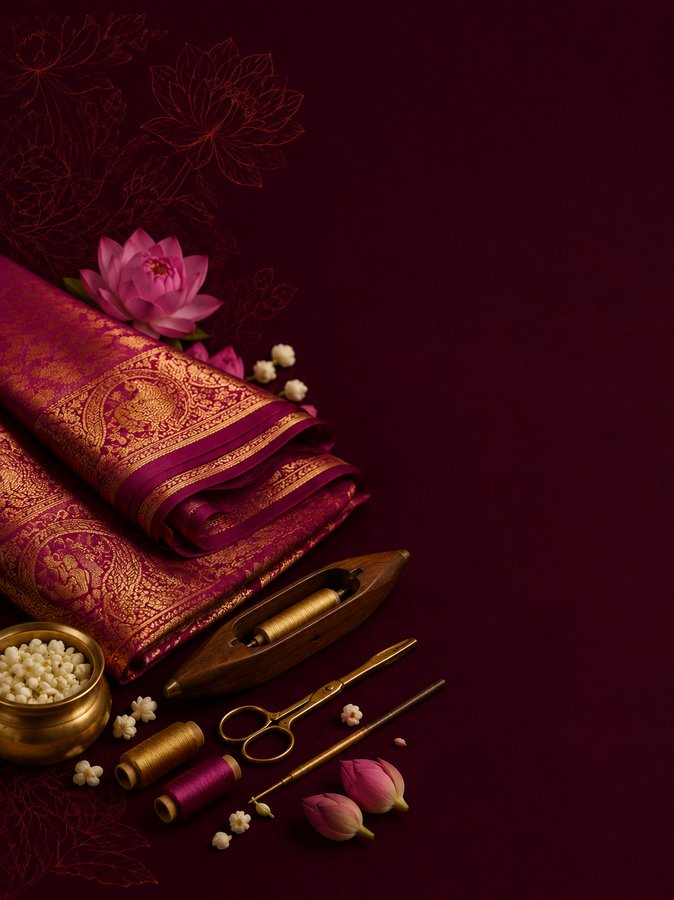
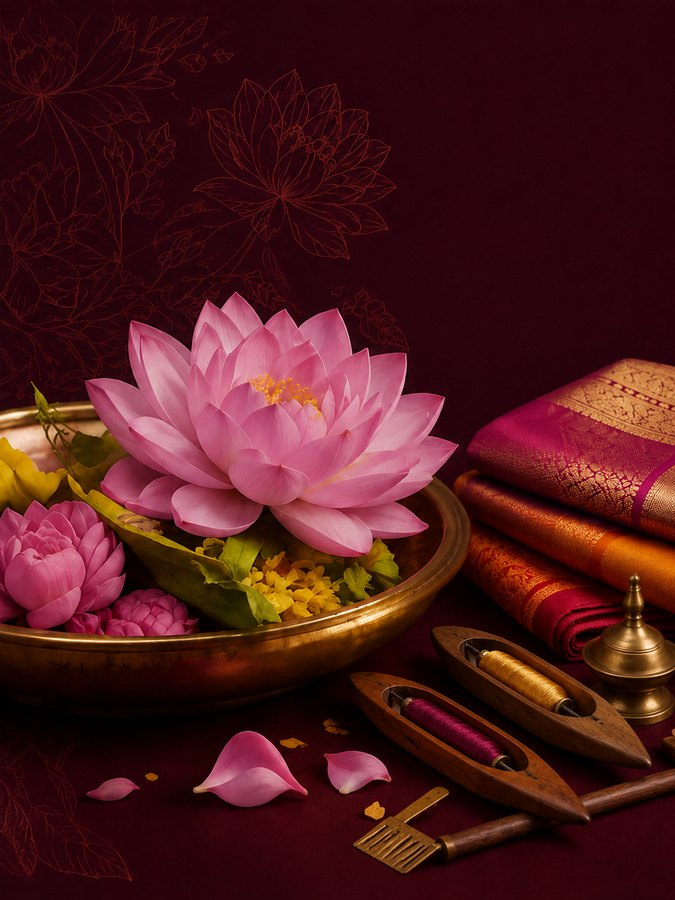
Add files via upload

diff --git a/style.css b/style.css
@@ -2806,7 +2806,7 @@ header.site-header.header-dark.is-scrolled {
 /* Founder quote on burgundy silk — the image is center-cropped by
    background sizing, so the section keeps its existing height */
 .quote-silk {
-  background-image: url('assets/decor/Textback.png');
+  background-image: url('assets/decor/Textback.jpg');
   background-size: cover;
   background-position: center;
 }
@@ -2863,7 +2863,7 @@ header.site-header.header-dark.is-scrolled {
   right: 0;
   bottom: 0;
   width: 46%;
-  background: var(--ivory) url('assets/decor/contactus.png') center right / cover no-repeat;
+  background: var(--ivory) url('assets/decor/contactus.jpg') center right / cover no-repeat;
   background-blend-mode: multiply; /* cream photo melts into the ivory page */
   -webkit-mask-image: linear-gradient(90deg, transparent 0, #000 18%);
   mask-image: linear-gradient(90deg, transparent 0, #000 18%);
@@ -2877,7 +2877,7 @@ header.site-header.header-dark.is-scrolled {
   .contact-hero-inner::after {
     content: none;
   }
-  .contact-hero { background: var(--ivory) url('assets/decor/contactus.png') right bottom / 46% auto no-repeat; background-blend-mode: multiply; }
+  .contact-hero { background: var(--ivory) url('assets/decor/contactus.jpg') right bottom / 46% auto no-repeat; background-blend-mode: multiply; }
 }
 .contact-hero-copy { text-align: left; }
 .contact-hero .eyebrow { display: inline-block; }
@@ -2948,7 +2948,7 @@ header.site-header.header-dark.is-scrolled {
 /* "Ready to see them up close?" — card with floral edge on mobile */
 @media (max-width: 880px) {
   .ready-close-card {
-    background: var(--ivory) url('assets/decor/rightborder.png') right center / auto 100% no-repeat;
+    background: var(--ivory) url('assets/decor/rightborder.jpg') right center / auto 100% no-repeat;
     border: 1px solid var(--stone);
     border-radius: 12px;
     padding: 34px 22px;

diff --git a/about.html b/about.html
@@ -104,8 +104,8 @@
 </section>
 
 <section class="about-cta-section">
-  <img class="about-cta-decor decor-l" src="assets/decor/leftborder.png" alt="">
-  <img class="about-cta-decor decor-r" src="assets/decor/rightborder.png" alt="">
+  <img class="about-cta-decor decor-l" src="assets/decor/leftborder.jpg" alt="">
+  <img class="about-cta-decor decor-r" src="assets/decor/rightborder.jpg" alt="">
   <div class="container text-center about-cta-inner">
     <h2>Ready to find your perfect saree?</h2>
     <p style="margin: 6px 0 2px;">Book a private viewing or chat on WhatsApp</p>

diff --git a/collections.html b/collections.html
@@ -72,8 +72,8 @@
 
 
 <section class="page-hero catalogue-hero">
-  <img class="catalogue-hero-decor decor-left" src="assets/decor/leftborder.png" alt="">
-  <img class="catalogue-hero-decor decor-right" src="assets/decor/rightborder.png" alt="">
+  <img class="catalogue-hero-decor decor-left" src="assets/decor/leftborder.jpg" alt="">
+  <img class="catalogue-hero-decor decor-right" src="assets/decor/rightborder.jpg" alt="">
   <div class="container">
     <span class="eyebrow">The Full Catalogue</span>
     <h1>Sarees woven for<br>every occasion</h1>

diff --git a/home.html b/home.html
@@ -113,7 +113,7 @@
 </section>
 
 <section class="drape-section">
-  <img class="drape-decor" src="assets/decor/followdrape.png" alt="">
+  <img class="drape-decor" src="assets/decor/followdrape.jpg" alt="">
   <div class="container drape-band">
     <div class="drape-copy">
       <h2>Follow the Drape</h2>
@@ -156,7 +156,7 @@
     </div>
   </div>
   <img class="wom-decor wom-lamp" src="assets/decor/reviewleftimage.jpg" alt="">
-  <img class="wom-decor wom-flower" src="assets/decor/flower.png" alt="">
+  <img class="wom-decor wom-flower" src="assets/decor/flower.jpg" alt="">
   <div class="reviews-marquee">
     <div class="reviews-track" id="reviews-track">
       <!-- populated by script.js from assets/reviews/reviews.json -->